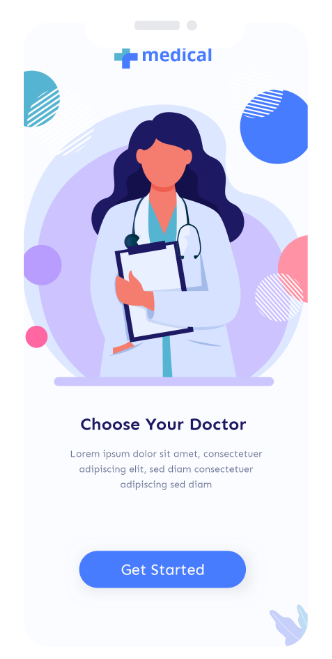
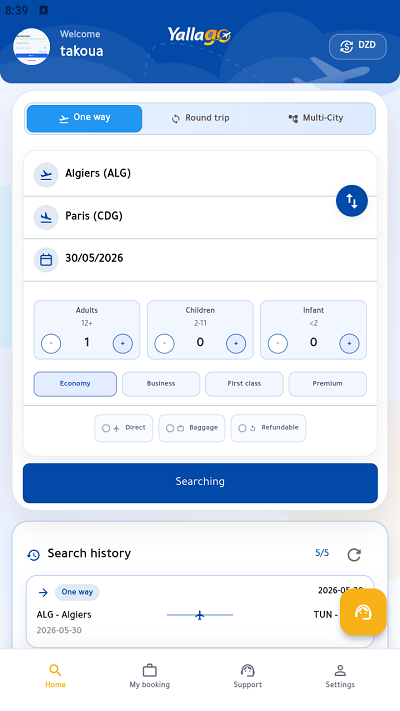
udpdates

diff --git a/support.html b/support.html
@@ -1,0 +1,115 @@
+<!DOCTYPE html>
+<html class="no-js" lang="en">
+  <head>
+    <meta charset="utf-8" />
+    <meta http-equiv="x-ua-compatible" content="ie=edge" />
+    <title>Yallago | Support</title>
+    <meta name="description" content="Yallago Support and Data Deletion Request" />
+    <meta name="viewport" content="width=device-width, initial-scale=1" />
+    <link rel="shortcut icon" type="image/x-icon" href="assets/img/favicon.svg" />
+    <link rel="stylesheet" href="assets/css/bootstrap-5.0.0-beta2.min.css" />
+    <link rel="stylesheet" href="assets/css/LineIcons.2.0.css" />
+    <link rel="stylesheet" href="assets/css/tiny-slider.css" />
+    <link rel="stylesheet" href="assets/css/animate.css" />
+    <link rel="stylesheet" href="assets/css/main.css" />
+    <style>
+      .support-section { padding: 140px 0 80px; }
+      .support-card {
+        background: #fff;
+        border-radius: 16px;
+        box-shadow: 0 10px 30px rgba(0, 0, 0, 0.06);
+        padding: 32px;
+      }
+      .support-card h1, .support-card h2 { color: #081828; }
+      .support-card h2 { margin-top: 24px; font-size: 24px; }
+      .support-card p, .support-card li { color: #5d657b; line-height: 1.8; }
+    </style>
+  </head>
+  <body>
+    <header class="header">
+      <div class="navbar-area">
+        <div class="container">
+          <div class="row align-items-center">
+            <div class="col-lg-12">
+              <nav class="navbar navbar-expand-lg">
+                <a class="navbar-brand" href="index.html">
+                  <img src="assets/img/logo.jpg" alt="Logo" />
+                </a>
+                <button class="navbar-toggler" type="button" data-bs-toggle="collapse" data-bs-target="#navbarSupportedContent" aria-controls="navbarSupportedContent" aria-expanded="false" aria-label="Toggle navigation">
+                  <span class="toggler-icon"></span>
+                  <span class="toggler-icon"></span>
+                  <span class="toggler-icon"></span>
+                </button>
+                <div class="collapse navbar-collapse sub-menu-bar" id="navbarSupportedContent">
+                  <ul id="nav" class="navbar-nav ms-auto">
+                    <li class="nav-item"><a href="index.html#home">Home</a></li>
+                    <li class="nav-item"><a href="index.html#feature">Features</a></li>
+                    <li class="nav-item"><a href="index.html#faq">FAQ</a></li>
+                    <li class="nav-item"><a href="support.html">Support</a></li>
+                    <li class="nav-item"><a href="privacy-policy.html">Privacy Policy</a></li>
+                    <li class="nav-item"><a href="terms-and-condition.html">Terms of Service</a></li>
+                  </ul>
+                </div>
+              </nav>
+            </div>
+          </div>
+        </div>
+      </div>
+    </header>
+
+    <section class="support-section">
+      <div class="container">
+        <div class="support-card">
+          <h1>Support</h1>
+          <p>If you need help with your account or booking, contact our support team.</p>
+
+          <h2>Request Account or Email Deletion</h2>
+          <p>
+            To request deletion of your account data and email from our systems, send your request to:
+            <a href="mailto:takoua.chaabane@gmail.com?subject=Data%20Deletion%20Request">takoua.chaabane@gmail.com</a>
+          </p>
+          <p>Please include your registered email address and any relevant account details so we can process your request faster.</p>
+        </div>
+      </div>
+    </section>
+
+    <footer id="footer" class="footer">
+      <div class="container">
+        <div class="widget-wrapper">
+          <div class="row">
+            <div class="col-xl-2 col-md-6">
+              <div class="footer-widget">
+                <h3>About Us</h3>
+                <ul class="links">
+                  <li><a href="index.html#home">Home</a></li>
+                  <li><a href="index.html#feature">Features</a></li>
+                </ul>
+              </div>
+            </div>
+            <div class="col-xl-3 col-md-6">
+              <div class="footer-widget">
+                <h3>Support</h3>
+                <ul class="links">
+                  <li><a href="support.html">Support Center</a></li>
+                  <li><a href="mailto:worldsoftdev@gmail.com?subject=Data%20Deletion%20Request">Request Data Deletion</a></li>
+                  <li><a href="privacy-policy.html">Privacy Policy</a></li>
+                  <li><a href="terms-and-condition.html">Terms of Service</a></li>
+                </ul>
+              </div>
+            </div>
+          </div>
+        </div>
+      </div>
+    </footer>
+
+    <a href="#" class="scroll-top btn-hover">
+      <i class="lni lni-chevron-up"></i>
+    </a>
+
+    <script src="assets/js/bootstrap-5.0.0-beta2.min.js"></script>
+    <script src="assets/js/tiny-slider.js"></script>
+    <script src="assets/js/wow.min.js"></script>
+    <script src="assets/js/polifill.js"></script>
+    <script src="assets/js/main.js"></script>
+  </body>
+</html>

diff --git a/index.html b/index.html
@@ -53,7 +53,7 @@
             <div class="col-lg-12">
               <nav class="navbar navbar-expand-lg">
                 <a class="navbar-brand" href="index.html">
-                  <img src="assets/img/logo.JPEG" alt="Logo" />
+                  <img src="assets/img/logo.jpg" alt="Logo" />
                 </a>
                 <button class="navbar-toggler" type="button" data-bs-toggle="collapse" data-bs-target="#navbarSupportedContent" aria-controls="navbarSupportedContent" aria-expanded="false" aria-label="Toggle navigation">
                   <span class="toggler-icon"></span>
@@ -70,10 +70,16 @@
                       <a class="page-scroll" href="#feature">Features</a>
                     </li>
                     <li class="nav-item">
-                      <a class="" href="#0">About</a>
+                      <a href="support.html">Support</a>
                     </li>
                     <li class="nav-item">
                       <a class="page-scroll" href="#faq">FAQ</a>
+                    </li>
+                    <li class="nav-item">
+                      <a href="privacy-policy.html">Privacy Policy</a>
+                    </li>
+                    <li class="nav-item">
+                      <a href="terms-and-condition.html">Terms of Service</a>
                     </li>
                   </ul>
                 </div>
@@ -122,19 +128,25 @@
 			<div class="container">
 				<div class="client-logo-wrapper">
 					<div class="single-logo">
-						<img src="assets/img/client-logo/client-logo-1.png" alt="">
+						<img src="assets/img/client-logo/air-alg.png" alt="Air Algerie">
 					</div>
 					<div class="single-logo">
-						<img src="assets/img/client-logo/client-logo-2.png" alt="">
+						<img src="assets/img/client-logo/air-canada.png" alt="Air Canada">
 					</div>
 					<div class="single-logo">
-						<img src="assets/img/client-logo/client-logo-3.png" alt="">
+						<img src="assets/img/client-logo/air-france.png" alt="Air France">
 					</div>
 					<div class="single-logo">
-						<img src="assets/img/client-logo/client-logo-4.png" alt="">
+						<img src="assets/img/client-logo/tui.png" alt="TUI">
 					</div>
 					<div class="single-logo">
-						<img src="assets/img/client-logo/client-logo-5.png" alt="">
+						<img src="assets/img/client-logo/Turkish-Air.png" alt="Turkish Airlines">
+					</div>
+					<div class="single-logo">
+						<img src="assets/img/client-logo/volotea.png" alt="Volotea">
+					</div>
+					<div class="single-logo">
+						<img src="assets/img/client-logo/Vueling.png" alt="Vueling">
 					</div>
 				</div>
 			</div>
@@ -193,7 +205,7 @@
 		<!-- ========================= feature-section end ========================= -->
 
 		<!-- ========================= faq-section start ========================= -->
-		<section id="faq" class="faq-section pt-120">
+		<section id="faq" class="faq-section pt-120" style="display: none;">
 			<div class="container">
 				<div class="row justify-content-center">
 					<div class="col-xxl-5 col-xl-6 col-lg-7">
@@ -280,10 +292,10 @@
 							<div class="footer-widget">
 								<h3>Support</h3>
 								<ul class="links">
-									<li> <a href="javascript:void(0)">Accounting Software</a> </li>
+									<li> <a href="support.html">Support Center</a> </li>
+									<li> <a href="mailto:worldsoftdev@gmail.com?subject=Data%20Deletion%20Request">Request Data Deletion</a> </li>
 									<li> <a href="privacy-policy.html">Privacy Policy</a> </li>
 									<li> <a href="terms-and-condition.html">Terms of Service</a> </li>
-									<li> <a href="javascript:void(0)">Accessibility</a> </li>
 								</ul>
 							</div>
 						</div>

diff --git a/terms-and-condition.html b/terms-and-condition.html
@@ -46,7 +46,7 @@
                     <div class="col-lg-12">
                         <nav class="navbar navbar-expand-lg">
                             <a class="navbar-brand" href="index.html">
-                                <img src="assets/img/logo.JPEG" alt="Logo" />
+                                <img src="assets/img/logo.jpg" alt="Logo" />
                             </a>
                             <button class="navbar-toggler" type="button" data-bs-toggle="collapse" data-bs-target="#navbarSupportedContent" aria-controls="navbarSupportedContent" aria-expanded="false" aria-label="Toggle navigation">
                                 <span class="toggler-icon"></span>
@@ -58,6 +58,7 @@
                                     <li class="nav-item"><a href="index.html#home">Home</a></li>
                                     <li class="nav-item"><a href="index.html#feature">Features</a></li>
                                     <li class="nav-item"><a href="index.html#faq">FAQ</a></li>
+                                    <li class="nav-item"><a href="support.html">Support</a></li>
                                     <li class="nav-item"><a href="privacy-policy.html">Privacy Policy</a></li>
                                     <li class="nav-item"><a href="terms-and-condition.html">Terms of Service</a></li>
                                 </ul>
@@ -234,10 +235,10 @@
               <div class="footer-widget">
                 <h3>Support</h3>
                 <ul class="links">
-                  <li><a href="javascript:void(0)">Accounting Software</a></li>
+                  <li><a href="support.html">Support Center</a></li>
+                  <li><a href="mailto:worldsoftdev@gmail.com?subject=Data%20Deletion%20Request">Request Data Deletion</a></li>
                   <li><a href="privacy-policy.html">Privacy Policy</a></li>
                   <li><a href="terms-and-condition.html">Terms of Service</a></li>
-                  <li><a href="javascript:void(0)">Accessibility</a></li>
                 </ul>
               </div>
             </div>

diff --git a/privacy-policy.html b/privacy-policy.html
@@ -33,7 +33,7 @@
             <div class="col-lg-12">
               <nav class="navbar navbar-expand-lg">
                 <a class="navbar-brand" href="index.html">
-                  <img src="assets/img/logo.JPEG" alt="Logo" />
+                  <img src="assets/img/logo.jpg" alt="Logo" />
                 </a>
                 <button class="navbar-toggler" type="button" data-bs-toggle="collapse" data-bs-target="#navbarSupportedContent" aria-controls="navbarSupportedContent" aria-expanded="false" aria-label="Toggle navigation">
                   <span class="toggler-icon"></span>
@@ -45,6 +45,7 @@
                     <li class="nav-item"><a href="index.html#home">Home</a></li>
                     <li class="nav-item"><a href="index.html#feature">Features</a></li>
                     <li class="nav-item"><a href="index.html#faq">FAQ</a></li>
+                    <li class="nav-item"><a href="support.html">Support</a></li>
                     <li class="nav-item"><a href="privacy-policy.html">Privacy Policy</a></li>
                     <li class="nav-item"><a href="terms-and-condition.html">Terms of Service</a></li>
                   </ul>
@@ -129,10 +130,10 @@
               <div class="footer-widget">
                 <h3>Support</h3>
                 <ul class="links">
-                  <li><a href="javascript:void(0)">Accounting Software</a></li>
+                  <li><a href="support.html">Support Center</a></li>
+                  <li><a href="mailto:worldsoftdev@gmail.com?subject=Data%20Deletion%20Request">Request Data Deletion</a></li>
                   <li><a href="privacy-policy.html">Privacy Policy</a></li>
                   <li><a href="terms-and-condition.html">Terms of Service</a></li>
-                  <li><a href="javascript:void(0)">Accessibility</a></li>
                 </ul>
               </div>
             </div>

diff --git a/assets/css/main.css b/assets/css/main.css
@@ -402,6 +402,7 @@ p {
   top: 0;
   left: 0;
   width: 100%;
+  background-color: #fff;
   z-index: 99;
   transition: all 0.3s ease-out 0s;
 }
@@ -518,7 +519,7 @@ p {
 .navbar-nav .nav-item a {
   font-size: 18px;
   font-weight: 400;
-  color: #fff;
+  color: #000;
   transition: all 0.3s ease-out 0s;
   padding: 10px 0;
   position: relative;
